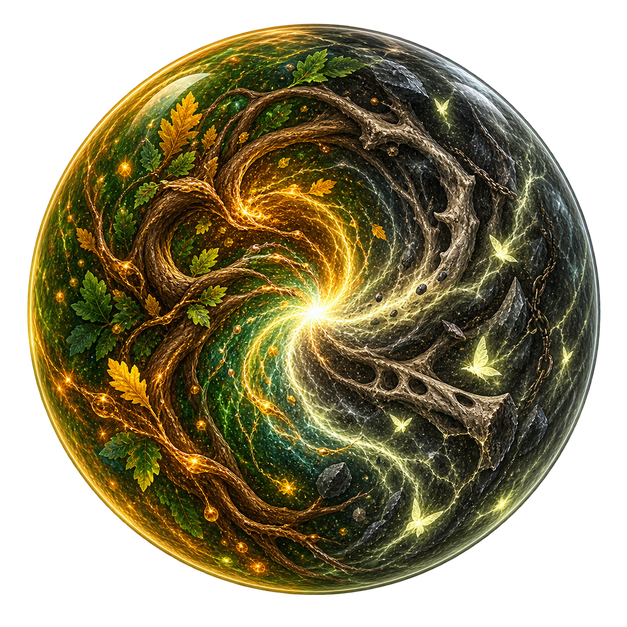
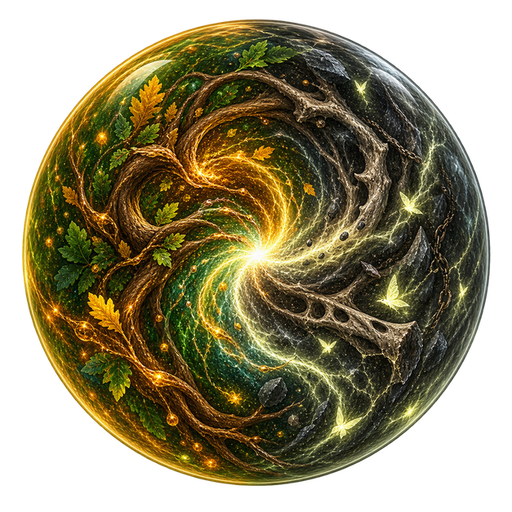
Mip the loading orbs so they stop speckling when drawn small (#451)
The illustrated loading plate draws its orb at 9% of screen height and the
versus plate at 18.5%, far below the 512-627px source, with mips off. The
swirl aliased into speckle and the rim went jagged. Orbs now import with
mips and trilinear filtering, and the three 627px orbs are resampled to
512 so they stay power-of-two and keep their compressed formats.

Changed region(s): [[0.3125, 0.2812, 0.3438, 0.3125]]

diff --git a/unity/Assets/Scripts/Editor/CardArtPostprocessor.cs b/unity/Assets/Scripts/Editor/CardArtPostprocessor.cs
@@ -140,12 +140,17 @@ namespace Kingdom.Editor
         // diverge. Not the UI lane either: these are 1-2 MB full-alpha spheres and atlasing
         // them would blow the atlas for no packing win.
         //
-        // Mips OFF - an orb is drawn at or near its native size over a plate, never minified
-        // into the distance. Alpha is load-bearing (VersusOverlay composites it), so no crunch.
+        // Mips ON, trilinear. Orbs are drawn far below source size: the illustrated loading
+        // plate puts a 512px orb in the footer at 9% of screen height (~100px on a phone), and
+        // the versus plate draws one at 18.5%. Without a mip chain the swirl aliases into
+        // speckle and the rim goes jagged (Sam's screenshot, 2026-11-04). Keep every orb a
+        // power-of-two square: mips on a non-power-of-two sprite import uncompressed (see
+        // ApplyUiFrame). Alpha is load-bearing (VersusOverlay composites it), so no crunch.
         static void ApplyOrb(TextureImporter importer)
         {
             ApplySpriteCommon(importer);
-            importer.mipmapEnabled = false;
+            importer.mipmapEnabled = true;
+            importer.filterMode = FilterMode.Trilinear;
             SetPlatform(importer, "Standalone", 2048, TextureImporterFormat.BC7);
             SetPlatform(importer, "Android", 1024, TextureImporterFormat.ASTC_6x6);
             SetPlatform(importer, "iPhone", 1024, TextureImporterFormat.ASTC_6x6);
